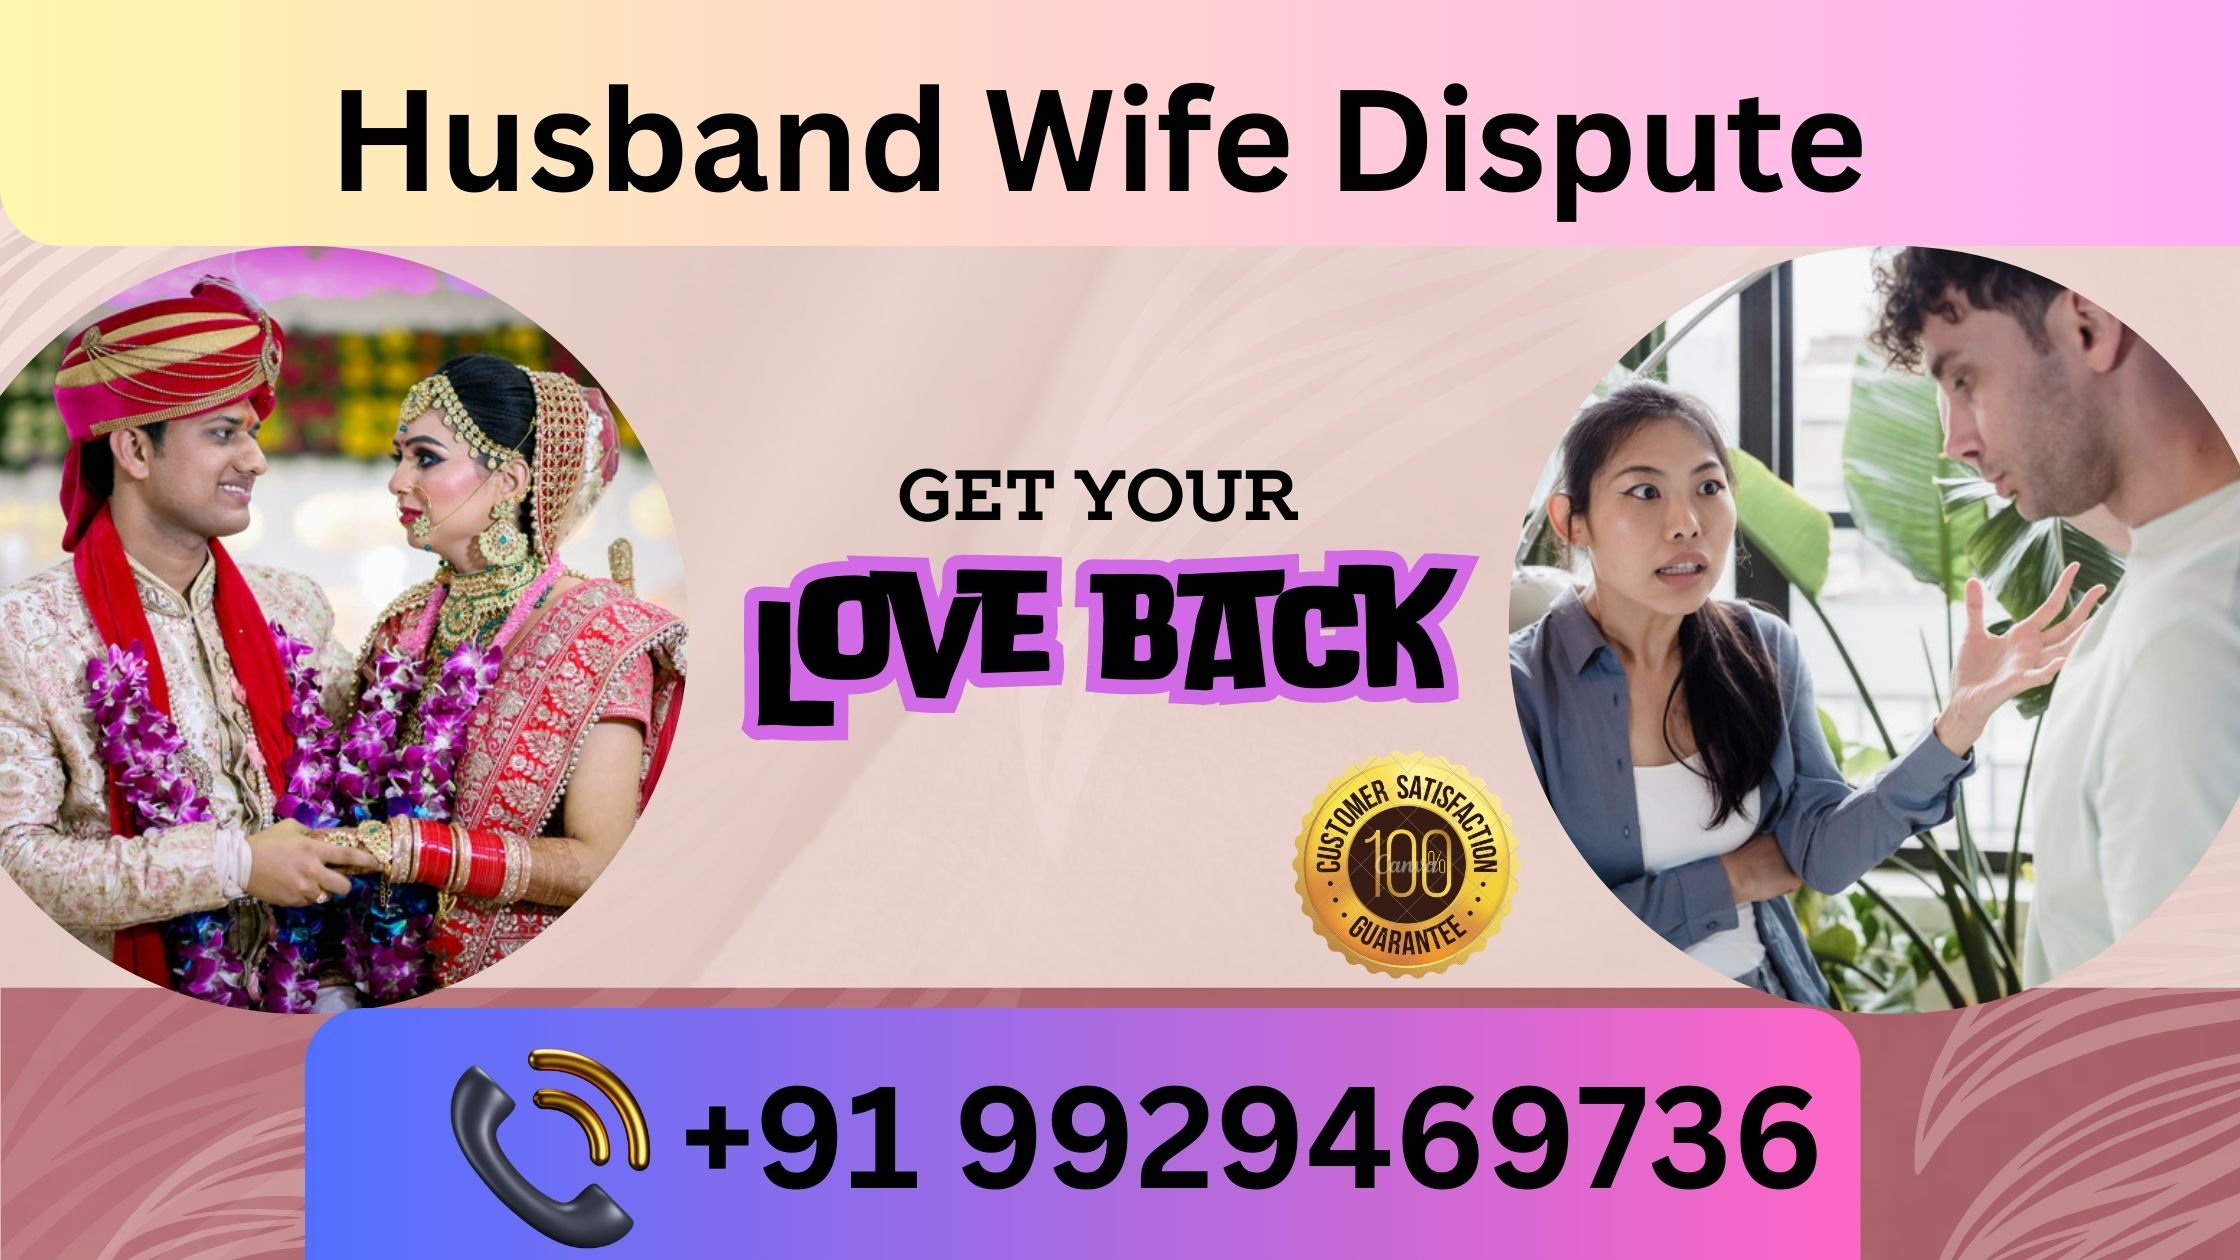
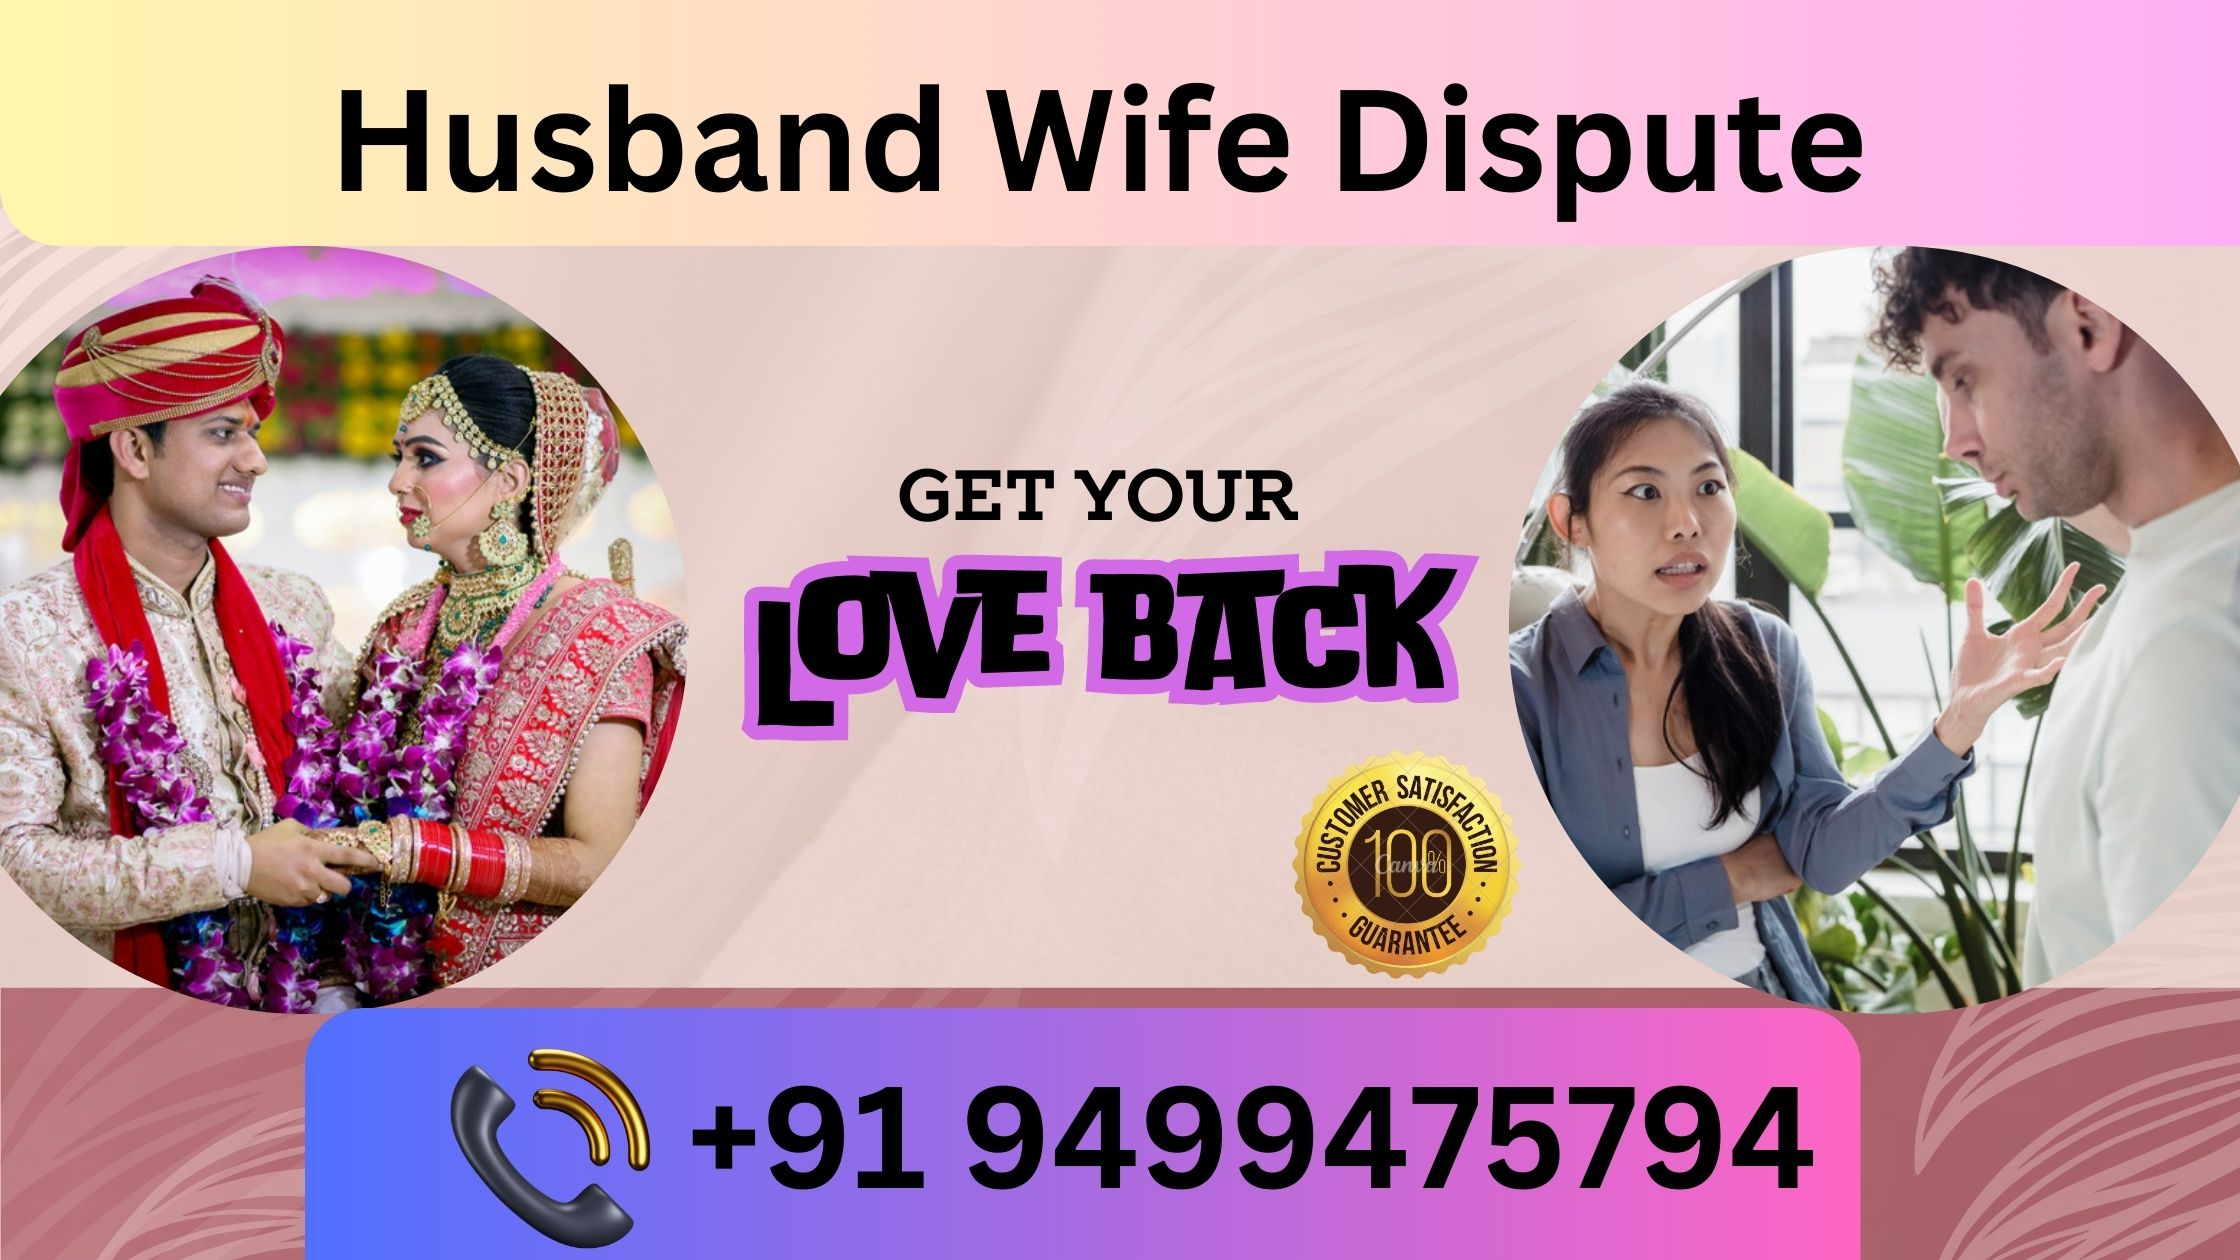
Changes mobile number

Changed region(s): [[0.3125, 0.8357, 0.8125, 0.9595]]

diff --git a/src/component/Carousel.jsx b/src/component/Carousel.jsx
@@ -15,6 +15,7 @@ const ShuffleHero = () => {
         <p className="text-base md:text-lg text-slate-700 my-4 md:my-6">
         Astrologer Aghori Baba Ji is well known spiritual astrologer who is much famous for helping people around the world with his services. He knows that his services could help a person to get rid of all the troubles of the life.
         </p>
+        
         <button className="bg-indigo-500 text-white font-medium py-2 px-4 rounded transition-all hover:bg-indigo-600 active:scale-95">
           Call Now
         </button>

diff --git a/src/component/FixedCall.jsx b/src/component/FixedCall.jsx
@@ -6,7 +6,7 @@ import Link from 'next/link';
 const FixedCallButton = () => {
     return (
         <div className="fixed bottom-4 left-4 z-50 transition-transform transform-gpu hover:scale-110 animate-bounce w-[4rem] h-[4rem]">
-          <Link href={`tel:${9929469736}`}>
+          <Link href={`tel:${9499475794}`}>
           
             <button className="bg-blue-500 text-white  py-2 px-2 rounded-full cursor-pointer">
             <Image  src={call} alt='call-now' height={50} width={50}/>

diff --git a/src/component/FloatWhatsapp.jsx b/src/component/FloatWhatsapp.jsx
@@ -6,7 +6,7 @@ import Link from 'next/link';
 const FloatWhatsapp = () => {
   return (
     <div className="fixed bottom-4 right-4 z-50 transition-transform transform-gpu hover:scale-110 animate-bounce w-[4rem] h-[4rem]">
-          <Link href={"https://wa.link/mck9z4"}>
+          <Link href={"wa.link/upsctx"}>
           
             <button className=" text-white  py-2 px-2 rounded-full cursor-pointer">
             <Image  src={whatsapp} alt='call-now' height={50} width={50}/>
